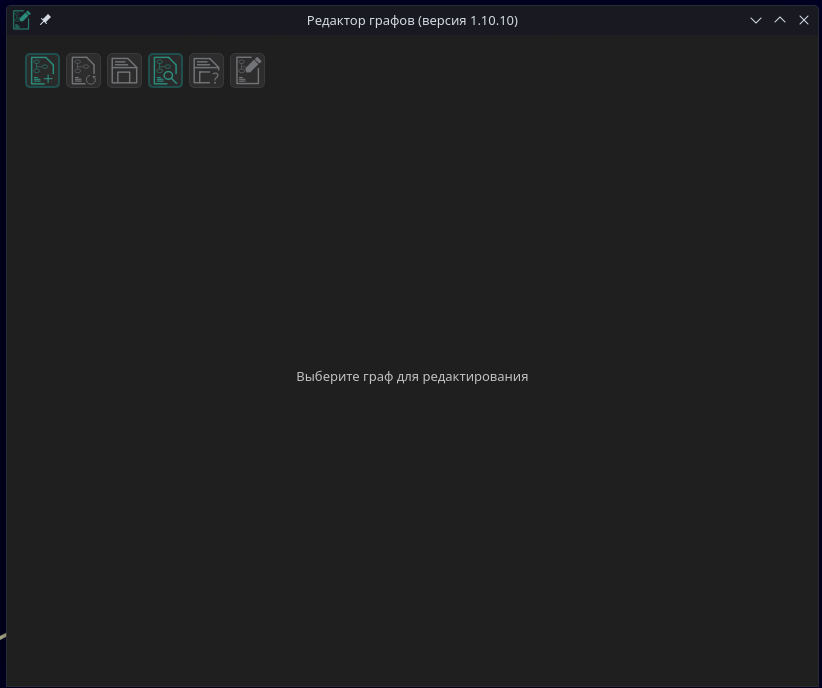
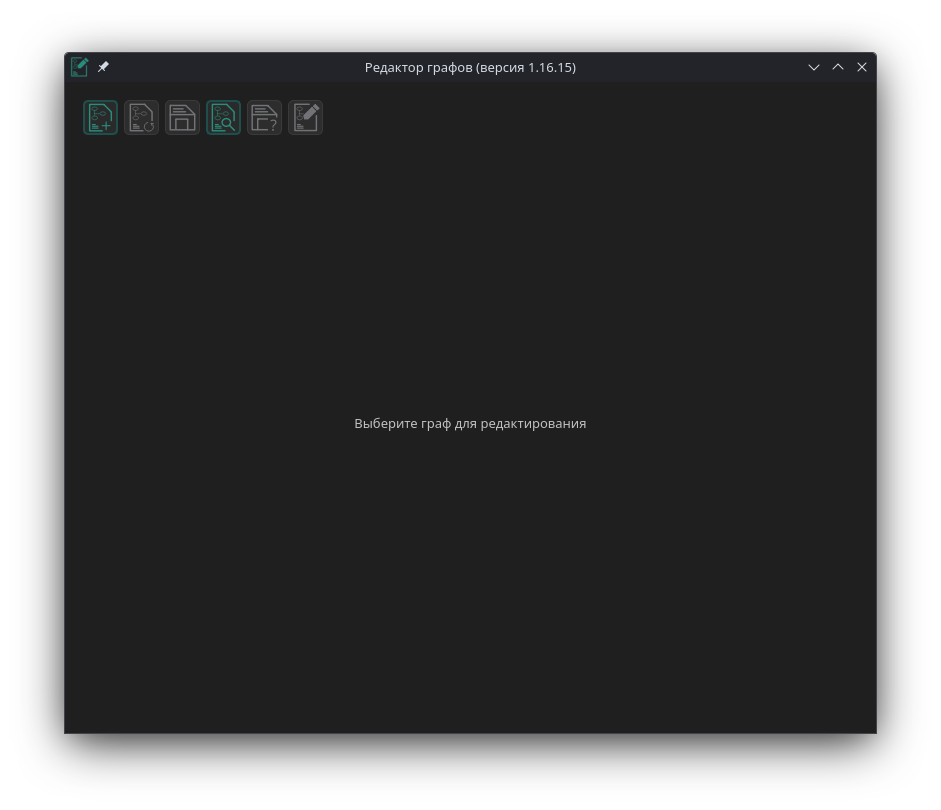
Обновил README.md под версию 1.16.15

Changed region(s): [[0.0, 0.0, 1.0, 1.0], [0.365, 0.5189, 0.6387, 0.5494]]

diff --git a/README.md b/README.md
@@ -27,12 +27,13 @@ bash ./createAppImage.sh
 - После запуска AppImage версии проекта, будет представлено стартовое окно приложения
 - Для открытия графа или создания нажмите соответствующую кнопку слева сверху окна приложения
 - Для редактирования графа нажмите кнопку справа после открытия графа. При этом раскроется набор инструментов, текущий выбранный режим работы подсвечивается цветом
+- Изначально при работе включена сетка. Для её отключения нажмите ПКМ на графе (вызов контекстного меню), после чего нажмите "Переключить сетку". Аналогичным образом сетка будет включена обратно.
 - Сохранение/загрузка графов ведётся в формате GSJ, GSEJ, а также в устаревшем (использовавшемся в версии 1.0.0) формате GSE, для обратной совместимости проектов, написанных в первой версии. При использовании для сохранения формата GSE, добавленные в последующих версиях объекты (интерактивные узлы, несвязные линии, площадные объекты и т.д.) могут не сохраниться. Используйте GSJ/GSEJ форматы
 - Базовое редактирование элементов графа позволяет настроить цвета вершин и соединений, а также задать изрбражение вершины графа
 - _Планируется масштабное обновление списка доступных элементов графа (и добавление интерактивных, например, ссылок на веб-ресурсы или файлы системы), добавление режимов и сохранения текущей сессии в версии 2.0.0 редактора._
 
 ## Известные баги
-_В версии 1.10.10 багов не обнаружено. При обнаружении просьба сообщить автору проекта_
+_В версии 1.16.15 багов не обнаружено. При обнаружении просьба сообщить автору проекта_
 
 ## Скриншоты
 1. Стартовое окно  
